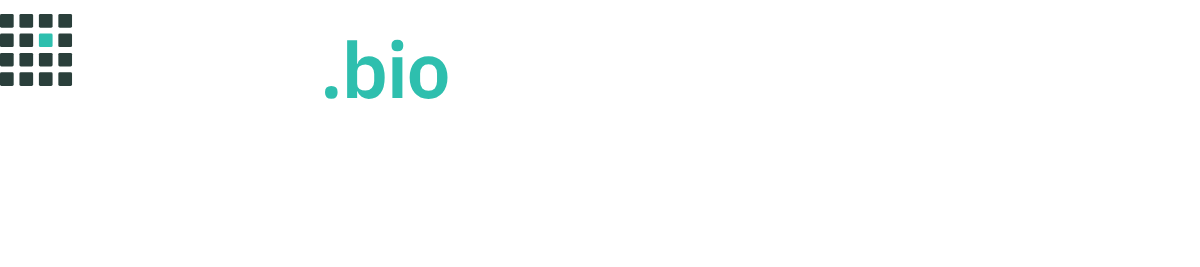
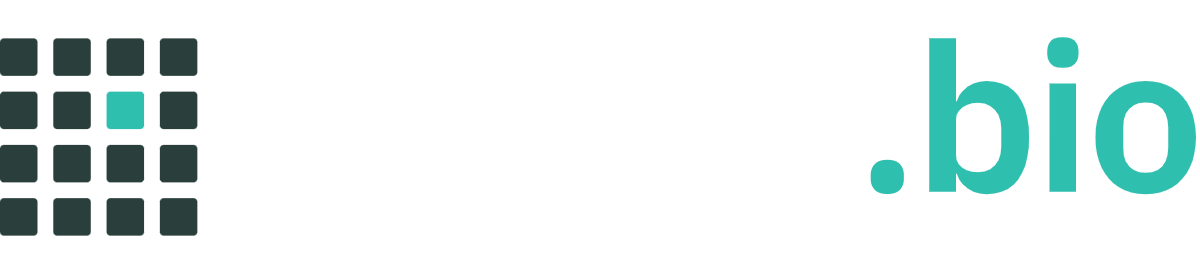
Account: AI allowance as a percentage meter; align lockup wordmark to the mark
The lockup wordmark now runs from the top of the l to the bottom of the g,
matching the top and bottom of the mark. brand/gen.py computes this from the
font's glyph bounds; lockup SVGs, PNGs and the embedded copies are regenerated.

diff --git a/src/pages/Account.tsx b/src/pages/Account.tsx
@@ -8,7 +8,6 @@ import { useAuth } from "@/components/auth/AuthProvider";
 import { apiClient, isApiError, type AccountUsage } from "@/integrations/api/client";
 import type { ApiKeySummary } from "@/integrations/api/types";
 import { usePageMeta } from "@/hooks/usePageMeta";
-import { fmtInt } from "@/lib/catalog-display";
 import { cn } from "@/lib/utils";
 
 
@@ -249,29 +248,30 @@ const Account = () => {
               </h2>
               {usage?.allowance ? (
                 <>
-                  <p className="mt-1 type-small text-muted-foreground">
-                    <span className="font-medium text-foreground tabular">{fmtInt(usage.allowance.used)}</span> of{" "}
-                    <span className="tabular">{fmtInt(usage.allowance.limit)}</span> tokens used
-                    {usage.allowance.resetsAt ? <>, renews {fmtDate(usage.allowance.resetsAt)}</> : null}. Output tokens count more than input
-                    tokens.
-                  </p>
-                  <div
-                    className="mt-3 h-2 rounded-full bg-secondary overflow-hidden"
-                    role="progressbar"
-                    aria-label="AI allowance used this month"
-                    aria-valuemin={0}
-                    aria-valuemax={usage.allowance.limit}
-                    aria-valuenow={usage.allowance.used}
-                  >
-                    <div
-                      className="h-full bg-primary"
-                      style={{ width: `${Math.min(100, usage.allowance.limit ? (100 * usage.allowance.used) / usage.allowance.limit : 0)}%` }}
-                    />
-                  </div>
-                  <p className="mt-3 text-[13px] text-muted-foreground tabular">
-                    {fmtInt(usage.allowance.tokensIn)} input and {fmtInt(usage.allowance.tokensOut)} output tokens · {fmtInt(usage.mcpCalls)} MCP tool
-                    calls this month
-                  </p>
+                  {(() => {
+                    const { used, limit } = usage.allowance;
+                    const pct = limit ? Math.min(100, (100 * used) / limit) : 0;
+                    const shown = used > 0 && pct < 1 ? "<1" : String(Math.round(pct));
+                    return (
+                      <>
+                        <p className="mt-1 type-small text-muted-foreground">
+                          <span className="font-medium text-foreground tabular">{shown}%</span> used
+                          {usage.allowance.resetsAt ? <>, renews {fmtDate(usage.allowance.resetsAt)}</> : null}.
+                        </p>
+                        <div
+                          className="mt-3 h-2 rounded-full bg-secondary overflow-hidden"
+                          role="progressbar"
+                          aria-label="AI allowance used this month"
+                          aria-valuemin={0}
+                          aria-valuemax={100}
+                          aria-valuenow={Math.round(pct)}
+                          aria-valuetext={`${shown}% used`}
+                        >
+                          <div className={pct >= 90 ? "h-full bg-warning" : "h-full bg-primary"} style={{ width: `${pct}%` }} />
+                        </div>
+                      </>
+                    );
+                  })()}
                   {usage.allowance.billing ? <p className="mt-2 text-[12.5px] text-muted-foreground">{usage.allowance.billing}</p> : null}
                 </>
               ) : (

diff --git a/src/components/browse/AiQuotaNotice.tsx b/src/components/browse/AiQuotaNotice.tsx
@@ -40,7 +40,7 @@ export function AiQuotaBadge({ className }: { className?: string }) {
     return (
       <span
         className={cn("inline-flex items-center gap-1.5 text-[11px] text-muted-foreground whitespace-nowrap tabular", className)}
-        title={`Your monthly AI token allowance${left.renews ? `, renews ${left.renews.slice(0, 10)}` : ""}. Repeated questions come from cache and use none. Billing for heavier use is coming.`}
+        title={`Your monthly AI allowance${left.renews ? `, renews ${left.renews.slice(0, 10)}` : ""}. Repeated questions come from cache and use none. Billing for heavier use is coming.`}
       >
         AI allowance: <span className={cn("font-medium", left.pct <= 10 ? "text-warning" : "text-foreground/80")}>{left.pct}% left</span>
       </span>

diff --git a/brand/gen.py b/brand/gen.py
@@ -2,6 +2,7 @@ import os, json
 from fontTools.ttLib import TTFont
 from fontTools.pens.svgPathPen import SVGPathPen
 from fontTools.pens.transformPen import TransformPen
+from fontTools.pens.boundsPen import BoundsPen
 
 OUT = os.environ.get("BRAND_OUT", "public/brand"); os.makedirs(OUT, exist_ok=True)
 FONT = os.environ.get("PLEX_SANS_DIR", "/tmp/plex/ibm-plex-sans/fonts/complete/ttf") + "/IBMPlexSans-SemiBold.ttf"
@@ -50,9 +51,16 @@ write("singlet-wordmark-dark.svg", wordmark_svg(P["white"], P["teal_bright"]))
 write("singlet-wordmark-mono-ink.svg", wordmark_svg(P["ink"], P["ink"]))
 write("singlet-wordmark-mono-white.svg", wordmark_svg(P["white"], P["white"]))
 
+def glyph_extent(ch):
+    f = TTFont(FONT); gs = f.getGlyphSet(); pen = BoundsPen(gs); gs[f.getBestCmap()[ord(ch)]].draw(pen)
+    return pen.bounds  # (xMin, yMin, xMax, yMax), y up
+# In the lockup the wordmark runs from the top of the "l" to the bottom of the "g",
+# which are the top and bottom of the mark (4 cells at s=0.72 span y=14..86).
+L_TOP = glyph_extent("l")[3] * scale; G_BOT = -glyph_extent("g")[1] * scale
+MARK_TOP, MARK_H = 14, 72
 def lockup_svg(lit, cell, ink, teal):
-    mark = mark_svg(lit=lit, cell=cell, s=0.72, x0=0, y0=14); wm_scale = 0.78; wm_w = total_w * wm_scale
-    wm = f'<g transform="translate(86,{18 + asc*scale*wm_scale:.2f}) scale({wm_scale})">{wm_group(paths, ink)}{wm_group(paths2, teal, width*scale)}</g>'
+    mark = mark_svg(lit=lit, cell=cell, s=0.72, x0=0, y0=MARK_TOP); wm_scale = MARK_H / (L_TOP + G_BOT); wm_w = total_w * wm_scale
+    wm = f'<g transform="translate(86,{MARK_TOP + L_TOP*wm_scale:.2f}) scale({wm_scale:.4f})">{wm_group(paths, ink)}{wm_group(paths2, teal, width*scale)}</g>'
     W = 86 + wm_w
     return f'<svg xmlns="http://www.w3.org/2000/svg" viewBox="0 0 {W:.1f} 100" width="{W:.1f}" height="100" role="img" aria-label="singlet.bio">{mark}{wm}</svg>'
 write("singlet-lockup-light.svg", lockup_svg(P["teal"], P["cell"], P["ink"], P["teal"]))
